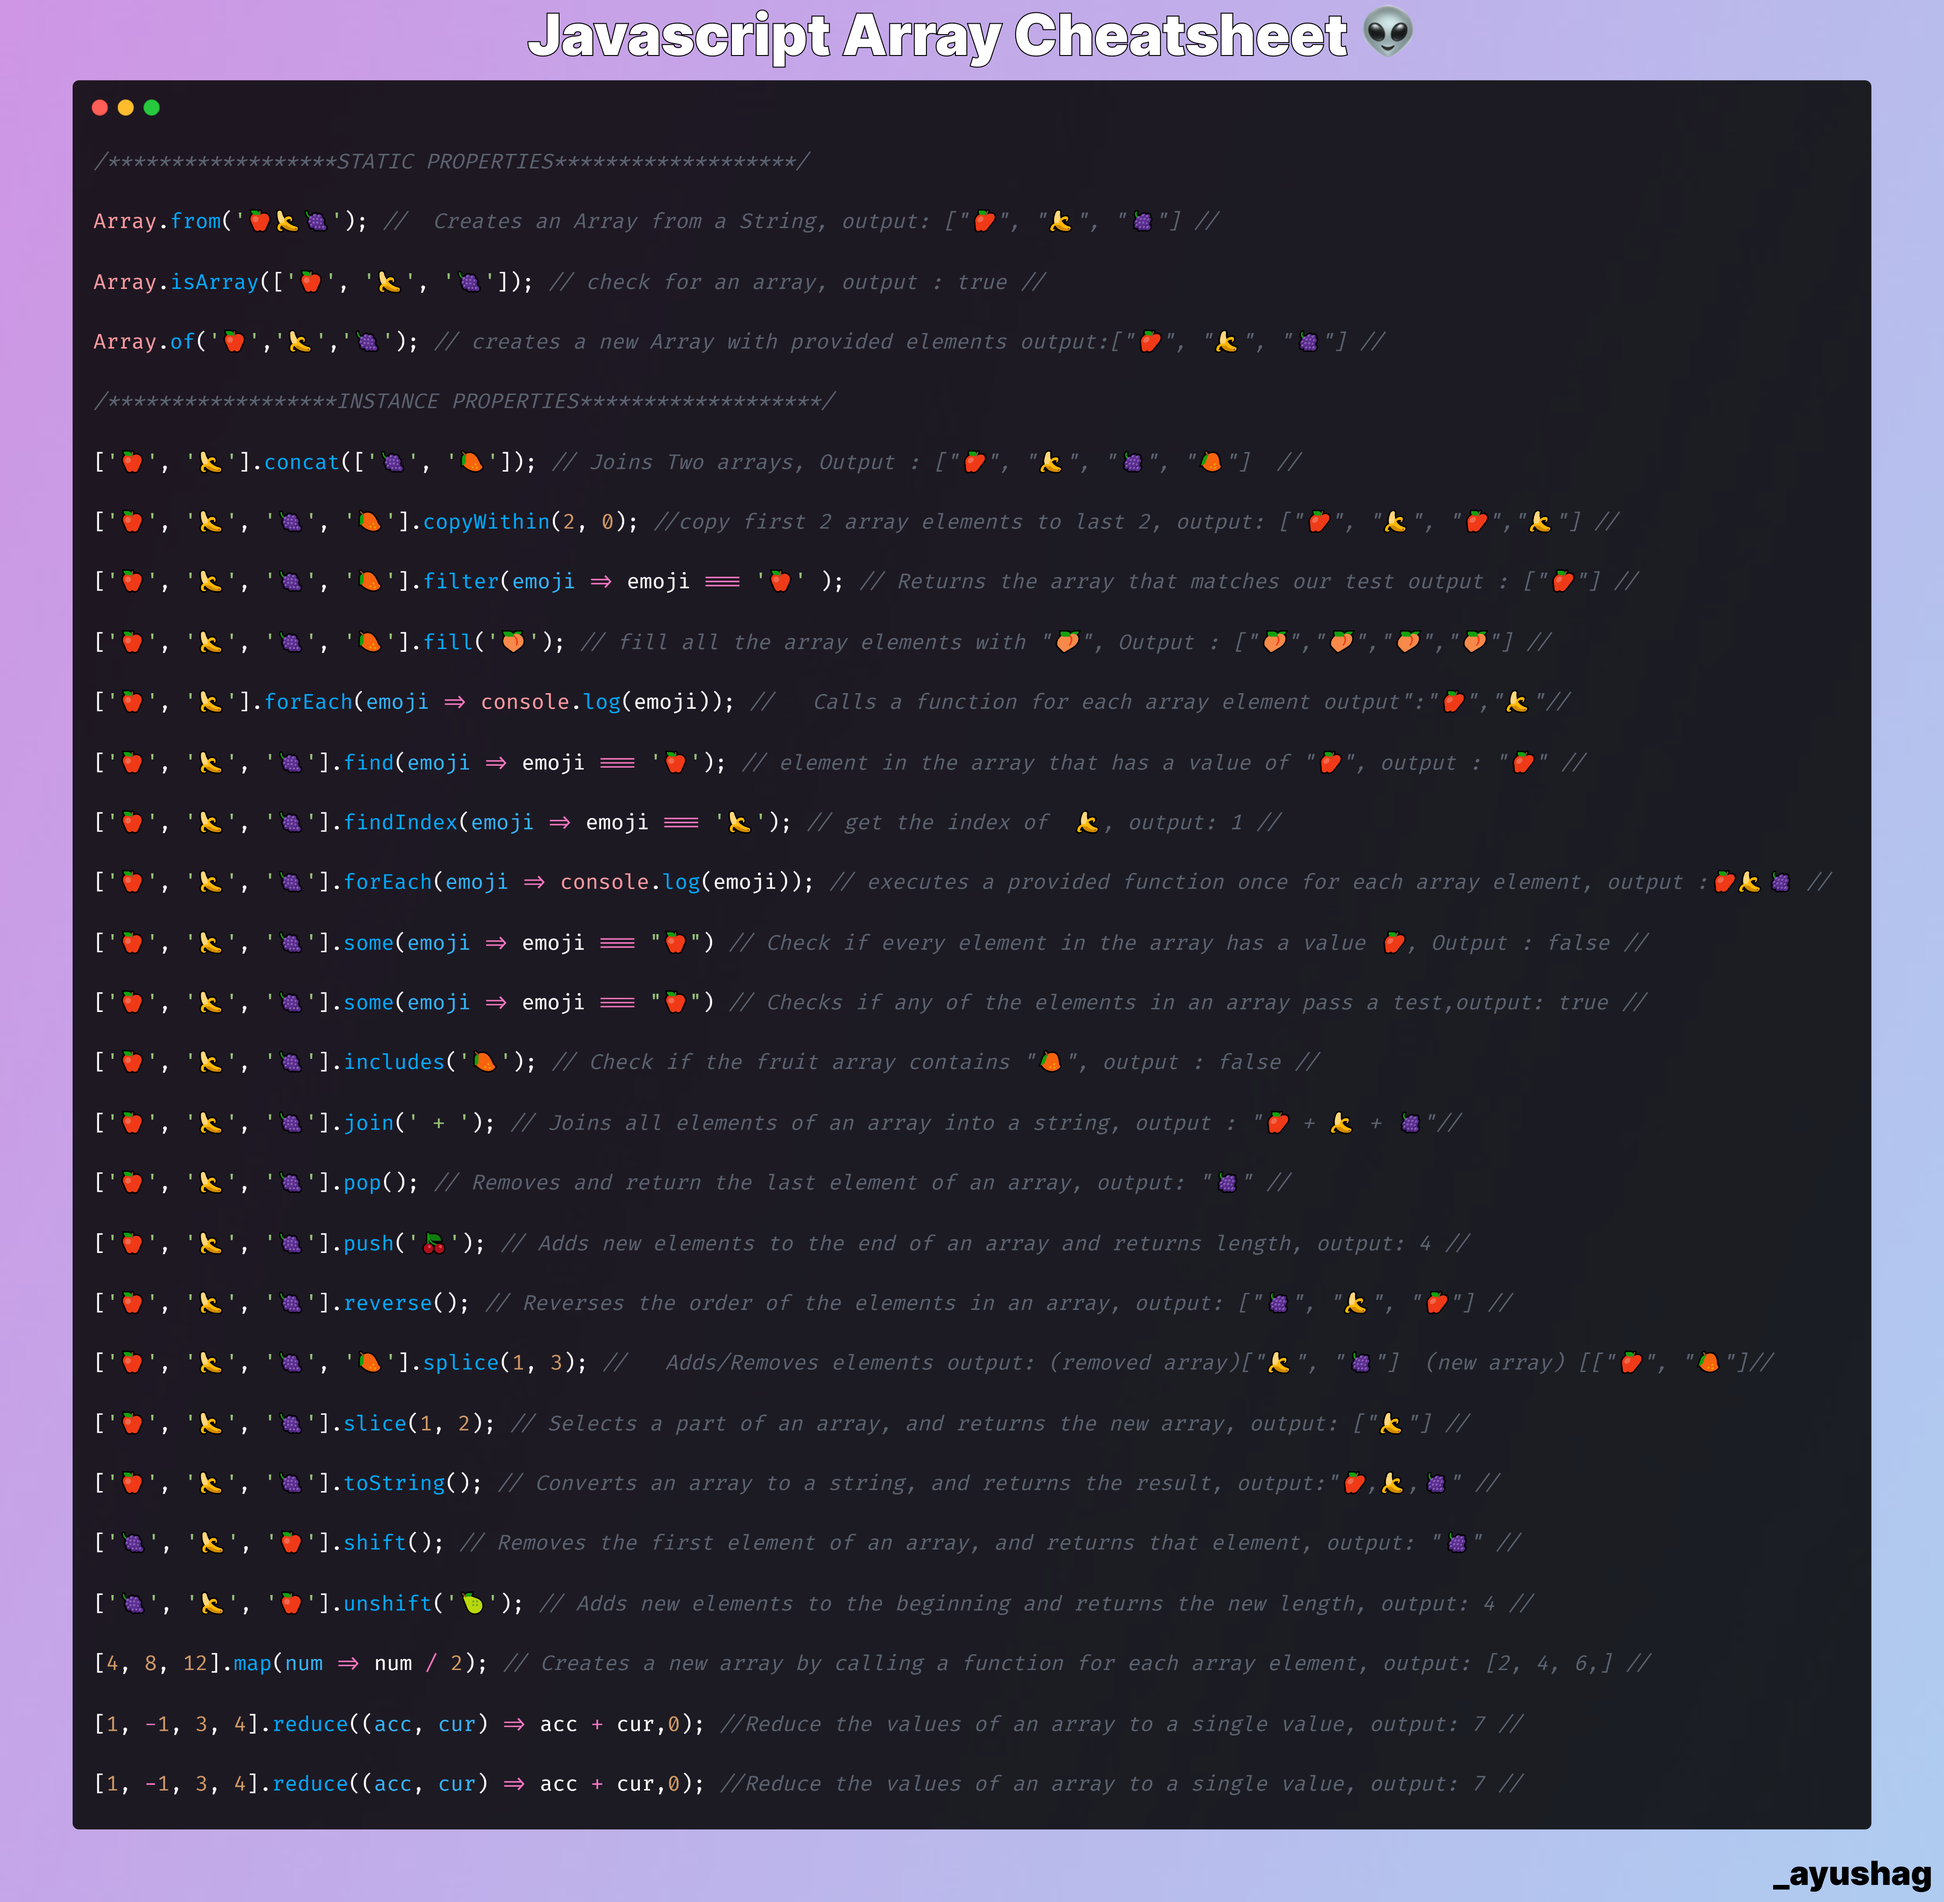
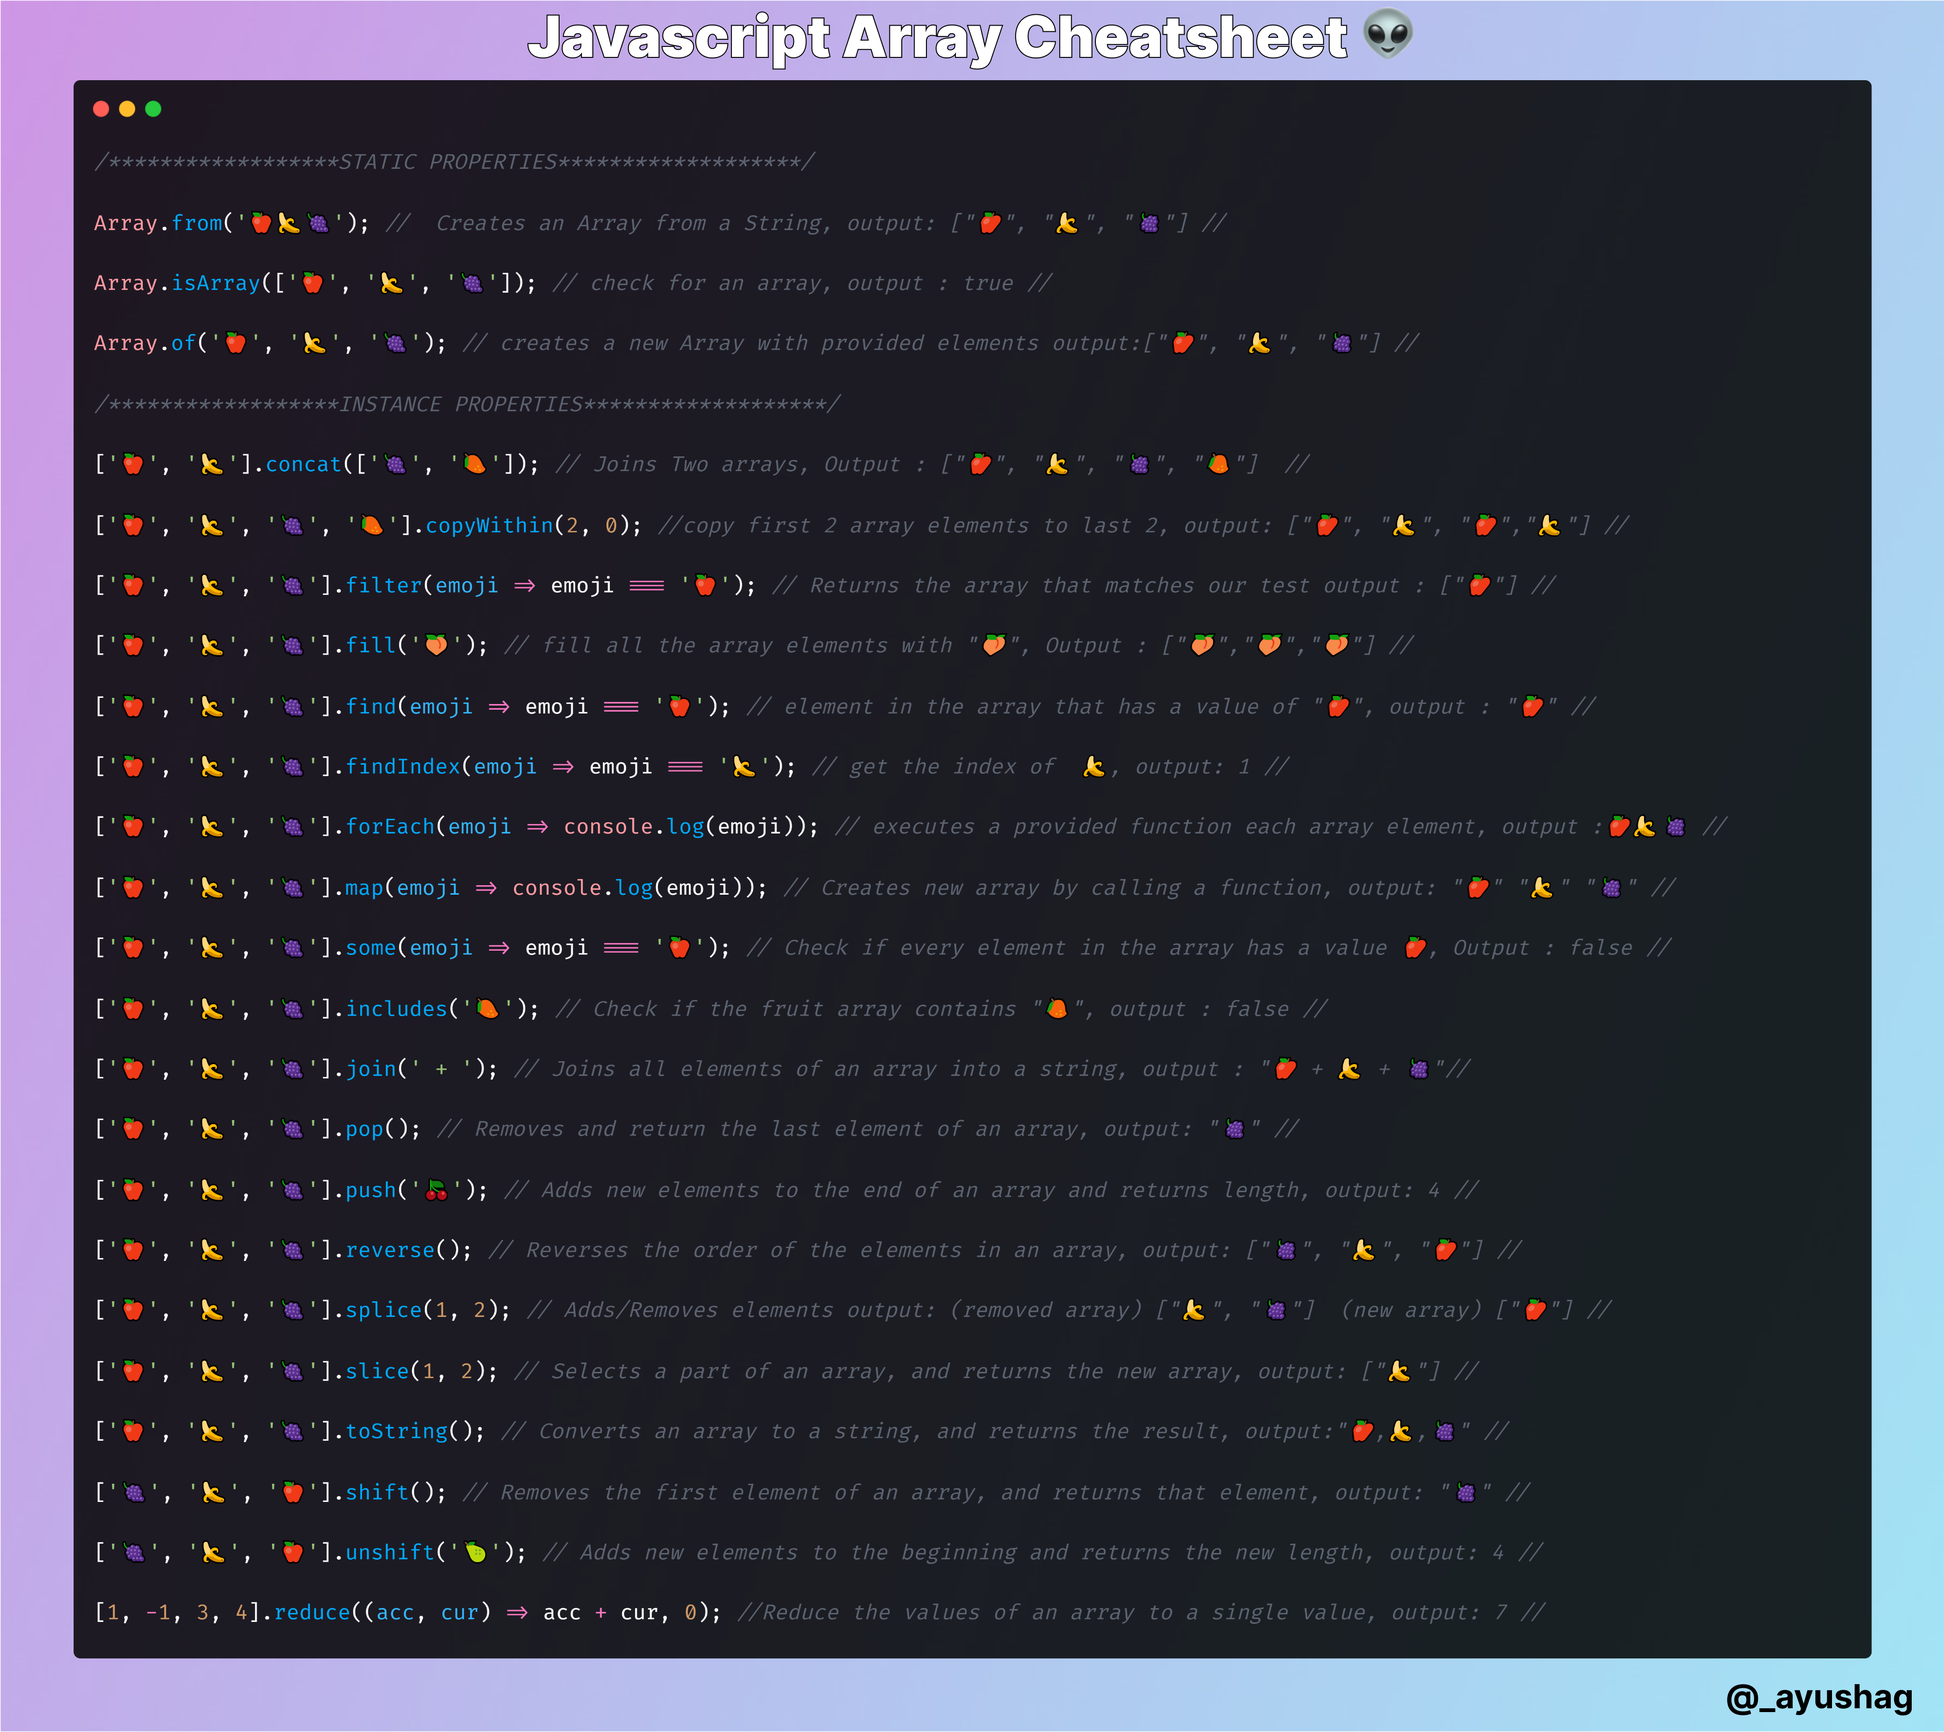
📸 Changed image

diff --git a/index.js b/index.js
@@ -12,9 +12,9 @@ Array.of('🍎', '🍌', '🍇'); // creates a new Array with provided elements 
 
 ['🍎', '🍌', '🍇', '🥭'].copyWithin(2, 0); //copy first 2 array elements to last 2, output: ["🍎", "🍌", "🍎","🍌"] //
 
-['🍎', '🍌', '🍇', '🥭'].filter(emoji => emoji === '🍎'); // Returns the array that matches our test output : ["🍎"] //
+['🍎', '🍌', '🍇'].filter(emoji => emoji === '🍎'); // Returns the array that matches our test output : ["🍎"] //
 
-['🍎', '🍌', '🍇', '🥭'].fill('🍑'); // fill all the array elements with "🍑", Output : ["🍑","🍑","🍑","🍑"] //
+['🍎', '🍌', '🍇'].fill('🍑'); // fill all the array elements with "🍑", Output : ["🍑","🍑","🍑"] //
 
 ['🍎', '🍌', '🍇'].find(emoji => emoji === '🍎'); // element in the array that has a value of "🍎", output : "🍎" //
 
